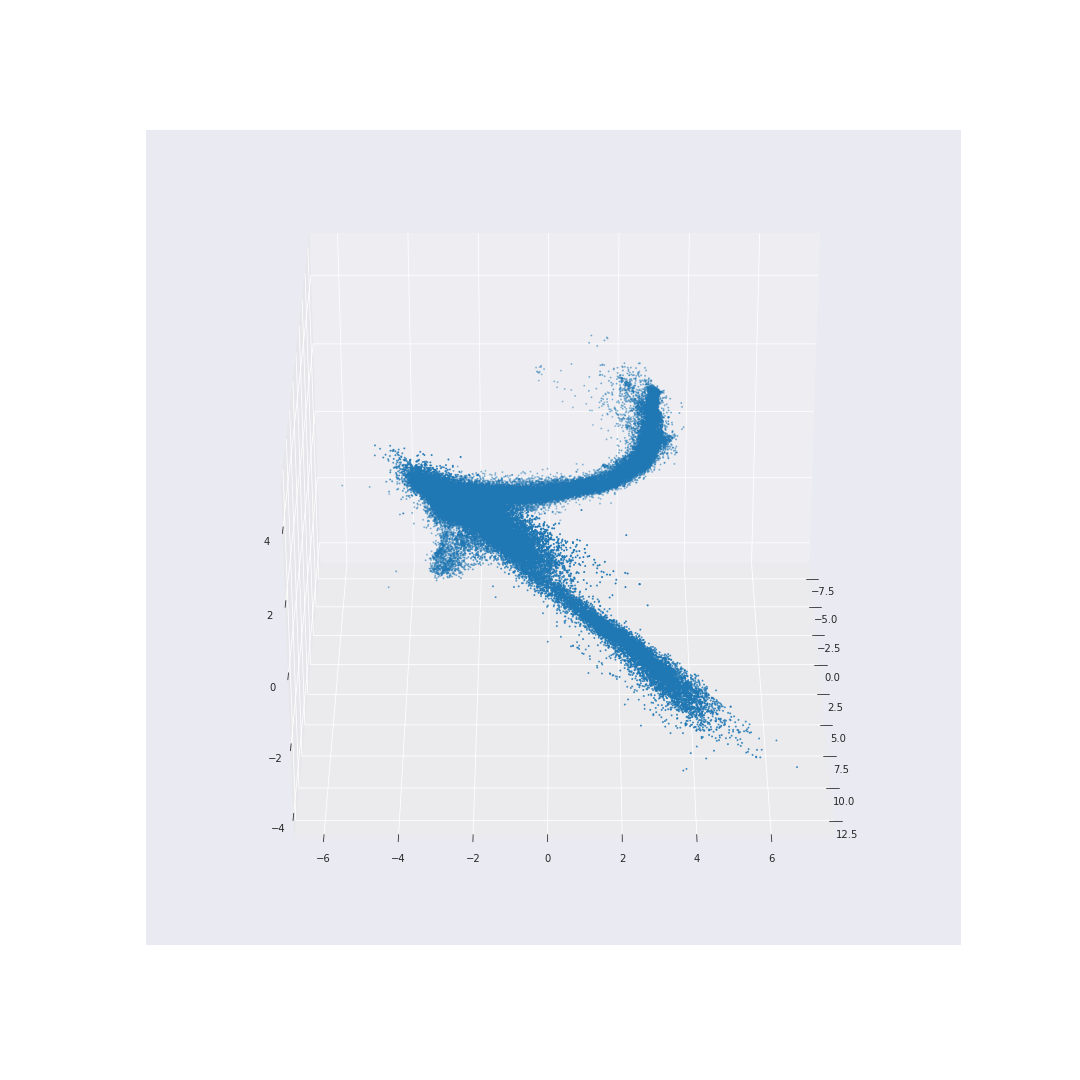
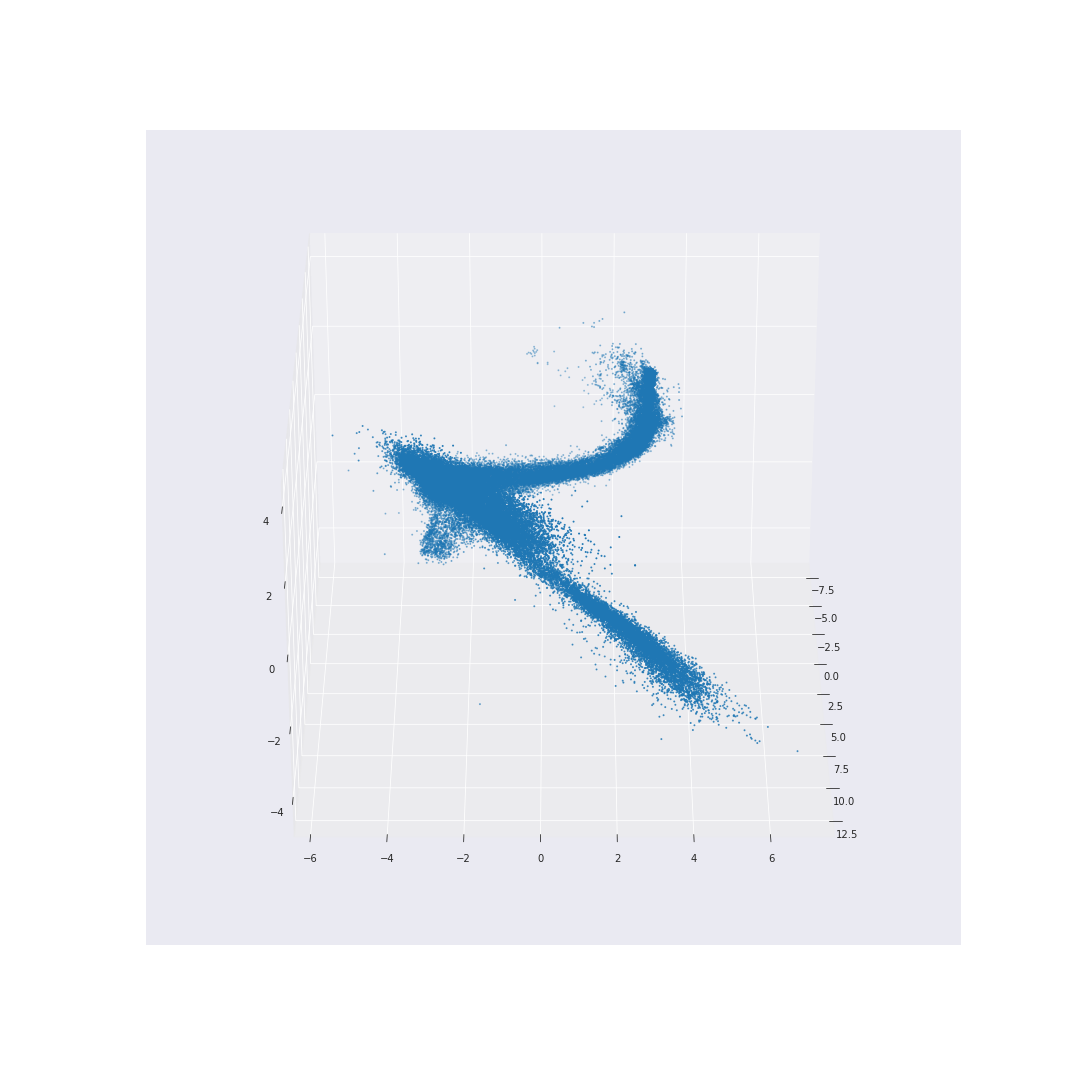
Fixed T-S single level plotting

Changed region(s): [[0.3361, 0.3056, 0.7028, 0.7028]]

diff --git a/src/plot_tools.py b/src/plot_tools.py
@@ -117,7 +117,7 @@ def plot_pca(ploc, profiles, pca, Xpca, frac=0.33):
     ax = fig.add_subplot(projection='3d')
     ax.view_init(30, 0)
     ax.scatter(xyp[:,0], xyp[:,1], xyp[:,2], 'o', s=1.0)
-    plt.savefig(ploc + 'pca_scatter_nolabels_view1' + '.png')
+    plt.savefig(ploc + 'pca_scatter_nolabels_view1' + '.png', bbox_inches='tight')
     plt.close()
 
     # view 2
@@ -125,7 +125,7 @@ def plot_pca(ploc, profiles, pca, Xpca, frac=0.33):
     ax = fig.add_subplot(projection='3d')
     ax.view_init(30, 120)
     ax.scatter(xyp[:,0], xyp[:,1], xyp[:,2], 'o', s=1.0)
-    plt.savefig(ploc + 'pca_scatter_nolabels_view2' + '.png')
+    plt.savefig(ploc + 'pca_scatter_nolabels_view2' + '.png', bbox_inches='tight')
     plt.close()
 
     # view 3
@@ -133,7 +133,7 @@ def plot_pca(ploc, profiles, pca, Xpca, frac=0.33):
     ax = fig.add_subplot(projection='3d')
     ax.view_init(30, 240)
     ax.scatter(xyp[:,0], xyp[:,1], xyp[:,2], 'o', s=1.0)
-    plt.savefig(ploc + 'pca_scatter_nolabels_view3' + '.png')
+    plt.savefig(ploc + 'pca_scatter_nolabels_view3' + '.png', bbox_inches='tight')
     plt.close()
 
 #####################################################################
@@ -153,7 +153,7 @@ def plot_umap(ploc, Xtrans, frac=0.33):
     ax = fig.add_subplot(projection='3d')
     ax.view_init(30, 0)
     ax.scatter(xyp[:,0], xyp[:,1], xyp[:,2], 'o', s=1.0)
-    plt.savefig(ploc + 'umap_scatter_nolabels_view1' + '.png')
+    plt.savefig(ploc + 'umap_scatter_nolabels_view1' + '.png', bbox_inches='tight')
     plt.close()
 
     # view 2
@@ -161,7 +161,7 @@ def plot_umap(ploc, Xtrans, frac=0.33):
     ax = fig.add_subplot(projection='3d')
     ax.view_init(30, 120)
     ax.scatter(xyp[:,0], xyp[:,1], xyp[:,2], 'o', s=1.0)
-    plt.savefig(ploc + 'umap_scatter_nolabels_view2' + '.png')
+    plt.savefig(ploc + 'umap_scatter_nolabels_view2' + '.png', bbox_inches='tight')
     plt.close()
 
     # view 3
@@ -169,7 +169,7 @@ def plot_umap(ploc, Xtrans, frac=0.33):
     ax = fig.add_subplot(projection='3d')
     ax.view_init(30, 240)
     ax.scatter(xyp[:,0], xyp[:,1], xyp[:,2], 'o', s=1.0)
-    plt.savefig(ploc + 'umap_scatter_nolabels_view3' + '.png')
+    plt.savefig(ploc + 'umap_scatter_nolabels_view3' + '.png', bbox_inches='tight')
     plt.close()
 
 #####################################################################
@@ -664,58 +664,69 @@ def plot_tsne(ploc, profiles, Xpca, random_state=0, perplexity=50):
     plt.scatter(trans_data[0], trans_data[1], c=colors_for_tSNE)
     plt.title("t-SNE")
     plt.axis('tight')
-    plt.savefig(ploc + 'tSNE' + '.png')
+    plt.savefig(ploc + 'tSNE' + '.png', bbox_inches='tight')
     plt.close()
 
 #####################################################################
 # T-S plot for a single pressure level
 #####################################################################
-# def plot_TS_single_lev(df, PTrange=(-2, 2.1), SPrange=(33.8, 34.8),
-#                        lon = -20, lat = -65, rr = 0.60, colormap):
-#
-#     # grid
-#     pt_grid = np.linspace(PTrange[0],PTrange[1],100)
-#     sp_grid = np.linspace(SPrange[0],SPrange[1],100)
-#     p = df.depth.values
-#     lon = -20
-#     lat = -65
-#
-#     sa_grid = gsw.SA_from_SP(sp_grid, p, lon, lat)
-#     ct_grid = gsw.CT_from_pt(sa_grid, pt_grid)
-#     ctg,sag = np.meshgrid(ct_grid,sa_grid)
-#     sig0_grid = gsw.density.sigma0(sag, ctg)
-#
-#     # extract values as new DataArrays
-#     T = df.prof_CT.values
-#     S = df.prof_SA.values
-#     clabels = df.label.values
-#
-#     # size of random sample (all profiles by now)
-#     random_sample_size = int(np.ceil(rr*df.profile.size))
-#
-#     # random sample for plotting
-#     rows_id = random.sample(range(0,clabels.size-1), random_sample_size)
-#     T_random_sample = T[rows_id]
-#     S_random_sample = S[rows_id]
-#     clabels_random_sample = clabels[rows_id]
-#
-#     #colormap with Historical data
-#     plt.figure(figsize=(13, 13))
-#     CL = plt.contour(ctg, sag, sig0_grid, colors='black', zorder=1)
-#     plt.clabel(CL, fontsize=24, inline=False, fmt='%.1f')
-#     plt.scatter(T_random_sample,
-#                      S_random_sample,
-#                      c = clabels_random_sample,
-#                      marker='o',
-#                      cmap= colormap,
-#                      s=8.0,
-#                      zorder=2,
-#                      )
-#
-#     plt.xlabel('Conservative temperature [$^\circ$C]', fontsize=20)
-#     plt.ylabel('Absolute salinity [psu]', fontsize=20)
-#     plt.xlim(PTrange)
-#     plt.ylim(SPrange)
-#     plt.xticks(fontsize=18)
-#     plt.yticks(fontsize=18)
-#     plt.title('T-S diagram at '+ str(p) + ' dbar', fontsize=22)
+def plot_TS_single_lev(ploc, df, n_comp, descrip='', plev=0, PTrange=(-2, 27.0),
+                       SPrange=(33.5, 37.5), lon = -20, lat = -65, rr = 0.60):
+
+    # import packages
+    import gsw
+
+    # make 1D
+    df1D = df.isel(depth=plev)
+
+    # define colormap
+    colormap = plt.get_cmap('tab10', n_comp)
+
+    # grid
+    pt_grid = np.linspace(PTrange[0],PTrange[1],100)
+    sp_grid = np.linspace(SPrange[0],SPrange[1],100)
+    p = df.depth.values[plev]
+    lon = -20
+    lat = -65
+
+    sa_grid = gsw.SA_from_SP(sp_grid, p, lon, lat)
+    ct_grid = gsw.CT_from_pt(sa_grid, pt_grid)
+    ctg,sag = np.meshgrid(ct_grid,sa_grid)
+    sig0_grid = gsw.density.sigma0(sag, ctg)
+
+    # extract values as new DataArrays
+    T = df1D.prof_CT.values
+    S = df1D.prof_SA.values
+    clabels = df1D.label.values
+
+    # size of random sample (all profiles by now)
+    random_sample_size = int(np.ceil(rr*df.profile.size))
+
+    # random sample for plotting
+    rows_id = random.sample(range(0,clabels.size-1), random_sample_size)
+    T_random_sample = T[rows_id]
+    S_random_sample = S[rows_id]
+    clabels_random_sample = clabels[rows_id]
+
+    #colormap with Historical data
+    plt.figure(figsize=(13, 13))
+    CL = plt.contour(ctg, sag, sig0_grid, colors='black', zorder=1)
+    plt.clabel(CL, fontsize=24, inline=False, fmt='%.1f')
+    plt.scatter(T_random_sample,
+                S_random_sample,
+                c = clabels_random_sample,
+                marker='o',
+                cmap= colormap,
+                s=8.0,
+                zorder=2,
+                )
+
+    plt.xlabel('Conservative temperature [$^\circ$C]', fontsize=20)
+    plt.ylabel('Absolute salinity [psu]', fontsize=20)
+    plt.xlim(PTrange)
+    plt.ylim(SPrange)
+    plt.xticks(fontsize=18)
+    plt.yticks(fontsize=18)
+    plt.title('T-S diagram at '+ str(p) + ' dbar', fontsize=22)
+    plt.savefig(ploc + 'TS_single_lev_' + str(int(p)) + 'dbar' + descrip + '.png', bbox_inches='tight')
+    plt.close()

diff --git a/src/example.py b/src/example.py
@@ -1,6 +1,7 @@
 #####################################################################
 # These may need to be installed
 #####################################################################
+# conda install -c conda-forge cartopy_offlinedata
 # pip install umap-learn
 # pip install seaborn
 # pip install gsw
@@ -134,7 +135,7 @@ profiles = gmm.apply_gmm(profiles, Xtrans, best_gmm, n_components_selected)
 class_means, class_stds = gmm.calc_class_stats(profiles)
 
 #####################################################################
-# Establish GMM (either load it or train a new one)
+# Plot classification results
 #####################################################################
 
 # plot T, S vertical structure of the classes,
@@ -148,12 +149,17 @@ pt.plot_sig0_class_structure(ploc, profiles, class_means,
 # plot t-SNE with class labels
 pt.plot_tsne(ploc, profiles, Xtrans, random_state=0, perplexity=50)
 
+# plot some single level T-S diagrams
+pt.plot_TS_single_lev(ploc, df, n_components_selected,
+                      descrip='', plev=0, PTrange=(-2, 27.0),
+                      SPrange=(33.5, 37.5), lon = -20, lat = -65, rr = 0.60)
+
 # plot label map
-pt.plot_label_map(ploc, profiles, n_components_selected,
-                   lon_min, lon_max, lat_min, lat_max)
+#pt.plot_label_map(ploc, profiles, n_components_selected,
+#                   lon_min, lon_max, lat_min, lat_max)
 
 # calculate the i-metric_
-df1D = profiles.isel(depth=0)
-gmm.calc_i_metric(profiles)
-plt.plot_i_metric_single_panel(df1D)
-plot_i_metric_multiple_panels(df1D, n_components_selected)
+#df1D = profiles.isel(depth=0)
+#gmm.calc_i_metric(profiles)
+#plt.plot_i_metric_single_panel(df1D)
+#plot_i_metric_multiple_panels(df1D, n_components_selected)
